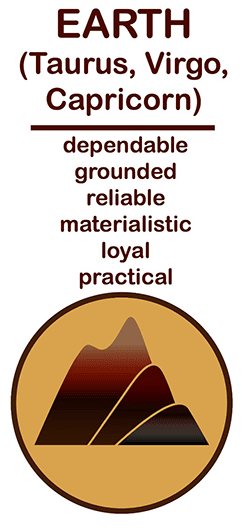
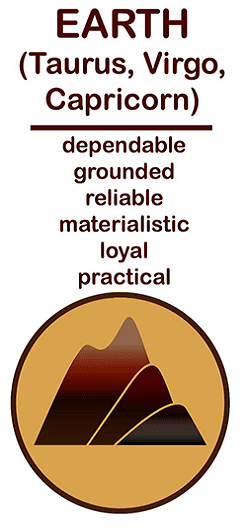
resized some imgs and set dimension to image components

diff --git a/src/app/zodiac/[zodiacName]/page.tsx b/src/app/zodiac/[zodiacName]/page.tsx
@@ -13,9 +13,9 @@ export default function ZodiacInfoPage({
 }: {
     params: {zodiacName: string}
 }) {
-    useEffect(() => {
-        window.scrollTo(0, 0)
-    }, [])
+    // useEffect(() => {
+    //     window.scrollTo(0, 0)
+    // }, [])
 
     const foundZodiac = data.ZodiacSignsDetail.find(
         (zd) => zd.Name === zodiacName
@@ -57,17 +57,20 @@ export default function ZodiacInfoPage({
                         <h1 className=" title">{foundZodiac.MyanmarMonth}</h1>
                         <h1 className=" title">Sign</h1>
                     </div>
-                    <Image
-                        src={`/${foundZodiac.ZodiacSignImageUrl}`}
-                        width={100}
-                        height={100}
-                        alt="sign"
-                        className="my-3"
-                    />
+                    <div className=" w-24 h-24 relative mb-5">
+                        <Image
+                            src={`/${foundZodiac.ZodiacSignImageUrl}`}
+                            fill
+                            alt="sign"
+                            className="my-3 object-contain"
+                        />
+                    </div>
                     <Image
                         src={`/${foundZodiac.ZodiacSign2ImageUrl}`}
-                        width={300}
-                        height={300}
+                        width={460}
+                        height={575}
+                        // width={300}
+                        // height={300}
                         priority
                         alt="sign"
                         className=" rounded-md"
@@ -83,8 +86,8 @@ export default function ZodiacInfoPage({
                     </div>
                     <Image
                         src={`/${foundZodiac.ElementImageUrl}`}
-                        width={300}
-                        height={300}
+                        width={248}
+                        height={529}
                         alt="element"
                         priority
                         className="rounded-md"

diff --git a/src/app/layout.tsx b/src/app/layout.tsx
@@ -1,11 +1,11 @@
 import type {Metadata} from "next"
-import {Merriweather} from "next/font/google"
+import {Merriweather, Noto_Sans_Myanmar} from "next/font/google"
 import "./globals.css"
 import Layout from "@/components/Layout"
 import Nav from "@/components/Nav"
 
 const merri = Merriweather({weight: "400", subsets: ["latin"]})
-
+export const mmfont = Noto_Sans_Myanmar({weight: "400", subsets: ["myanmar"]})
 export const metadata: Metadata = {
     title: "Zodiac",
     description: "Horoscope Forecasts App",
@@ -21,7 +21,7 @@ export default function RootLayout({children}: {children: React.ReactNode}) {
                     type="image/png"
                 />
             </head>
-            <body className={merri.className}>
+            <body className={`${merri.className} antialiased select-none`}>
                 <Nav />
                 <Layout>{children}</Layout>
             </body>

diff --git a/src/components/Content.tsx b/src/components/Content.tsx
@@ -1,8 +1,10 @@
+import {Merriweather, Noto_Sans_Myanmar} from "next/font/google"
+const mmfont = Noto_Sans_Myanmar({weight: "400", subsets: ["myanmar"]})
 export default function Content({title, desc}: {title: string; desc: string}) {
     return (
-        <div className=" mb-6">
+        <div className={`${mmfont.className} mb-6`}>
             <h1 className=" text-3xl font-semibold mb-3">{title}</h1>
-            <p className=" border-l-2 border-orange-400 pl-3 text-justify text-black/70 text-lg">
+            <p className=" border-l-2 border-orange-400 pl-3 text-justify text-black/70 text-base lg:text-lg leading-7">
                 {desc}
             </p>
         </div>
